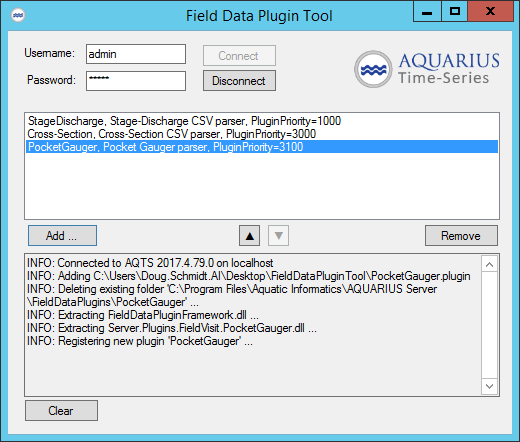
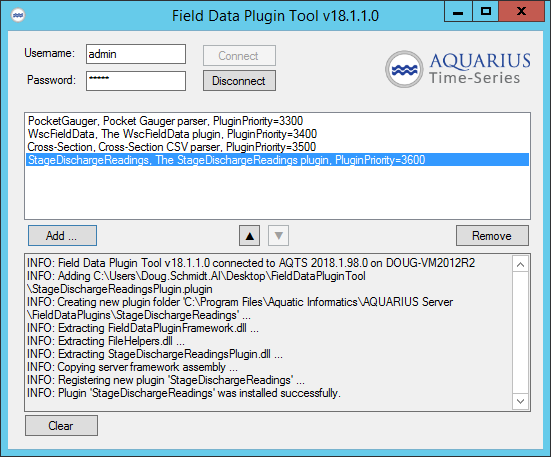
Issue-17 Always copy the server framework assembly into each plugin folder
This works around the app domain sandbox issues while allowing older plugins to work against the newer framework assembly, which is backwards compatible.

1) Added the framework assembly copy logic
2) Added a final message confirming that the plugin was successfully installed.
3) Added file versioning from the AppVeyor builds
4) Show the version on the screen, so we can tell customers "Re-install your older plugins using Field Data Plugin Tool v18.1.1 or greater.
5) Updated FDPT screenshot
6) Updated release notes

Changed region(s): [[0.0, 0.0, 1.0, 0.9706]]

diff --git a/src/FieldDataPluginTool/MainForm.cs b/src/FieldDataPluginTool/MainForm.cs
@@ -1,5 +1,6 @@
 using System;
 using System.Collections.Generic;
+using System.Diagnostics;
 using System.IO;
 using System.IO.Compression;
 using System.Linq;
@@ -23,6 +24,9 @@ namespace FieldDataPluginTool
         {
             InitializeComponent();
 
+            // ReSharper disable once VirtualMemberCallInConstructor
+            Text = $@"Field Data Plugin Tool v{GetExecutingFileVersion()}";
+
             usernameTextBox.Text = @"admin";
             passwordTextBox.Text = @"admin";
 
@@ -32,6 +36,14 @@ namespace FieldDataPluginTool
             priorityUpButton.Enabled = false;
             priorityDownButton.Enabled = false;
             pluginListBox.Enabled = false;
+        }
+
+        private static string GetExecutingFileVersion()
+        {
+            var assembly = Assembly.GetExecutingAssembly();
+            var fileVersionInfo = FileVersionInfo.GetVersionInfo(assembly.Location);
+
+            return fileVersionInfo.FileVersion;
         }
 
         private void Info(string message)
@@ -97,7 +109,7 @@ namespace FieldDataPluginTool
                 _client = AquariusClient.CreateConnectedClient(_hostname, usernameTextBox.Text.Trim(),
                     passwordTextBox.Text);
 
-                Info($"Connected to AQTS {_client.ServerVersion} on {_hostname}");
+                Info($"{Text} connected to AQTS {_client.ServerVersion} on {Environment.MachineName}");
 
                 GetAllPlugins();
             
@@ -132,6 +144,23 @@ namespace FieldDataPluginTool
                 throw new Exception($"Can't find the root plugin folder at '{installPath}'");
 
             return installPath;
+        }
+
+        private const string FrameworkAssemblyFilename = "FieldDataPluginFramework.dll";
+
+        private string GetServerFrameworkPath()
+        {
+            var libraryPath = Path.Combine(GetInstallPath(), "Library");
+
+            if (!Directory.Exists(libraryPath))
+                throw new Exception($"Can't find the server's master framework assembly as '{libraryPath}'");
+
+            var frameworkPath = Path.Combine(libraryPath, FrameworkAssemblyFilename);
+
+            if (!File.Exists(frameworkPath))
+                throw new Exception($"Can't file server framework assembly as '{frameworkPath}'");
+
+            return frameworkPath;
         }
 
         private void ThrowIfWrongVersion()
@@ -389,11 +418,18 @@ namespace FieldDataPluginTool
                         }
 
                         Info($"Extracting {entry.FullName} ...");
-                        using (var stream = entry.Open())
-                        using(var x = File.Create(extractedPath))
+                        using (var inStream = entry.Open())
+                        using (var outStream = File.Create(extractedPath))
                         {
-                            stream.CopyTo(x);
+                            inStream.CopyTo(outStream);
                         }
+                    }
+
+                    Info($"Copying server framework assembly ...");
+                    using (var inStream = File.OpenRead(GetServerFrameworkPath()))
+                    using (var outStream = File.Create(Path.Combine(targetPath, FrameworkAssemblyFilename)))
+                    {
+                        inStream.CopyTo(outStream);
                     }
 
                     Info($"Registering new plugin '{plugin.PluginFolderName}' ...");
@@ -402,6 +438,8 @@ namespace FieldDataPluginTool
 
                     pluginListBox.SelectedIndex =
                         _allPlugins.IndexOf(_allPlugins.Single(p => p.PluginFolderName == plugin.PluginFolderName));
+
+                    Info($"Plugin '{plugin.PluginFolderName}' was installed successfully.");
                 }
             }
             catch (Exception exception)

diff --git a/ReleaseNotes.md b/ReleaseNotes.md
@@ -4,6 +4,13 @@ This page highlights some changes in the field data framework.
 
 Not all changes will be listed, but you can always [compare by version tags](https://github.com/AquaticInformatics/aquarius-field-data-framework/compare/v17.4.1...v17.4.0) to see the full source code difference.
 
+### 18.1.1
+- Improved the `FieldDataPluginTool` to always copy the server's framework assembly into the installed plugin folder. This allows plugins written for 2017.4 to work on 2018.1 systems, just by re-installing the plugin. There is no need to recompile the plugin from source code.
+
+### 18.1.0
+- Added support for AQTS 2018.1 plugins
+- Added support for importing LevelSurvey activities
+
 ### 17.4.2
 - Added `/ExpectedStatus` and `/ExpectedError` options to `PluginTester.exe`, so that failure conditions of a plugin can also be tested. This can be useful to confirm that your plugin quickly returns `CannotParse` when asked to parse `Kitten.jpg`.
 
